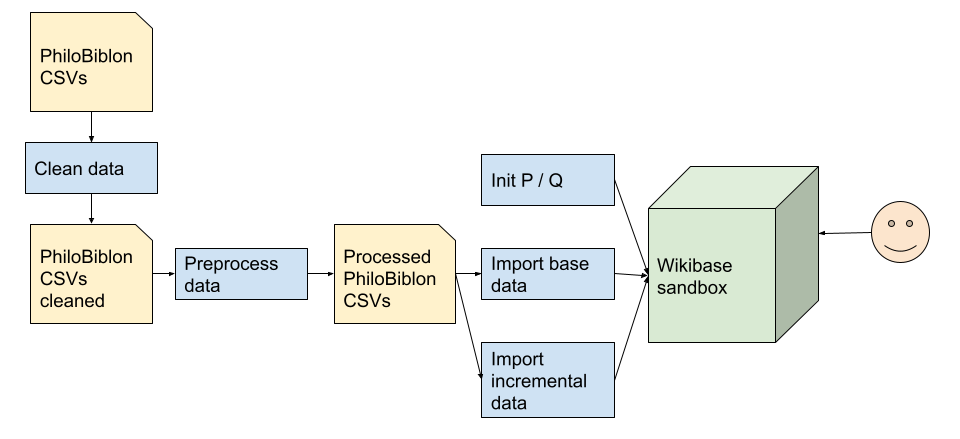
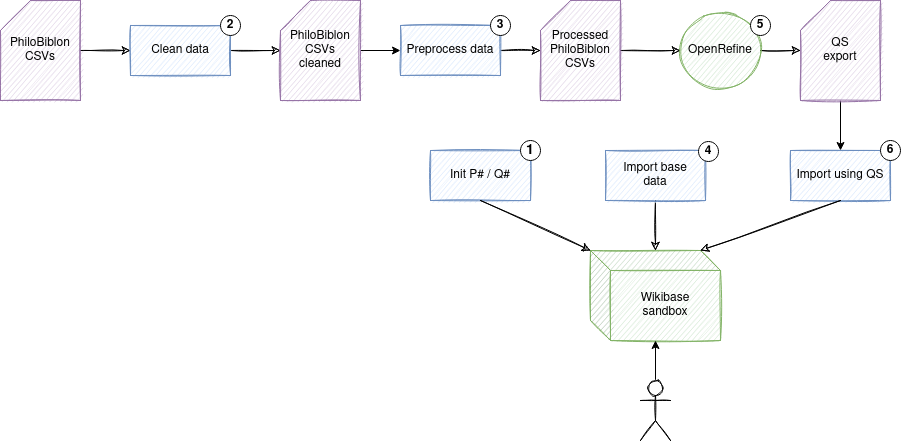
Changes for new import institutions iteration

diff --git a/pb2wb/preprocess/preprocessor/institution.py b/pb2wb/preprocess/preprocessor/institution.py
@@ -1,50 +1,71 @@
+from glob import escape
 import os
 import csv
 import pandas as pd
-from .generic import GenericPreprocessor
 
-UNKNOWN_LANG = 'und'
-NAME_CLASS_TO_LANG = {
-  'INSTITUTIONS*NAME_CLASS*L': 'la',
-  'INSTITUTIONS*NAME_CLASS*E': 'en',
-  'INSTITUTIONS*NAME_CLASS*S': 'es',
-  'INSTITUTIONS*NAME_CLASS*P': 'pt',
-  'INSTITUTIONS*NAME_CLASS*C': 'ca',
-  'INSTITUTIONS*NAME_CLASS*G': 'de',
-  'INSTITUTIONS*NAME_CLASS*F': 'fr',
-  'INSTITUTIONS*NAME_CLASS*I': 'it',
-  'INSTITUTIONS*NAME_CLASS*H': 'nld'
-}
+from common.settings import DATACLIP_DIR
+from .generic import GenericPreprocessor
 
 class InstitutionPreprocessor(GenericPreprocessor):
   CHARS_MAX_LEN = 400
+  UNKNOWN_LANG = 'und'
+  NAME_CLASS_TO_LANG = {
+    'INSTITUTIONS*NAME_CLASS*L': 'la',
+    'INSTITUTIONS*NAME_CLASS*E': 'en',
+    'INSTITUTIONS*NAME_CLASS*S': 'es',
+    'INSTITUTIONS*NAME_CLASS*O': 'es',
+    'INSTITUTIONS*NAME_CLASS*P': 'pt',
+    'INSTITUTIONS*NAME_CLASS*C': 'ca',
+    'INSTITUTIONS*NAME_CLASS*G': 'de',
+    'INSTITUTIONS*NAME_CLASS*F': 'fr',
+    'INSTITUTIONS*NAME_CLASS*I': 'it',
+    'INSTITUTIONS*NAME_CLASS*H': 'nld',
+    'INSTITUTIONS*NAME_CLASS*U': 'es'
+  }
+  DATACLIP_FILENAME = 'BETA - Institutions - Description.csv'
+
+  def __init__(self) -> None:
+    super().__init__()
+    self.df_dataclip = pd.read_csv(os.path.join(DATACLIP_DIR, 'BETA', self.DATACLIP_FILENAME), dtype=str, keep_default_na=False)
   
   def get_name_lang(self, row):
     name_class = row['NAME_CLASS']
     if name_class:
-      if name_class in NAME_CLASS_TO_LANG:
-        return NAME_CLASS_TO_LANG[name_class]
+      if name_class in self.NAME_CLASS_TO_LANG:
+        return self.NAME_CLASS_TO_LANG[name_class]
       else:
-        return UNKNOWN_LANG
+        return self.UNKNOWN_LANG
     return ''
+
+  def lookupDictionary(self, code, lang):    
+    cell_value = self.df_dataclip.loc[self.df_dataclip['code']==code][lang]
+    if cell_value.empty == True:
+      return None
+    else:
+      return cell_value.values[0]
+
+  def get_desc(self, row, lang):
+    item_class = self.lookupDictionary(row['CLASS'], lang)
+    item_type = self.lookupDictionary(row['TYPE'], lang)
+    desc = str(item_class or '') + ' ' + str(item_type or '')
+    return desc.strip()
 
   def preprocess(self, file, processed_dir):
     print('INFO: Processing institutions ..')
     df_ins = pd.read_csv(file, dtype=str, keep_default_na=False)
 
-    # Add label
-    df_ins = self.add_new_column_from_value(df_ins, 'NAME_CLASS', 'INSTITUTIONS*NAME_CLASS*U', 'LABEL', 'NAME')
-    df_ins = self.move_last_column_after(df_ins, 'NAME_CLASS')
-    self.set_column_value_by_condition(df_ins, 'LABEL.str.len()>0', 'NAME', '')
+    # Class
+    self.set_column_value_by_condition(df_ins, 'CLASS.str.len()>0 & CLASS==\'INSTITUTIONS*CLASS*OTHER\'', 'CLASS', '')
 
-    # TODO Add description
+    # Description
+    df_ins['DESC_EN'] = df_ins.apply (lambda row: self.get_desc(row, 'en'), axis=1)
+    df_ins['DESC_ES'] = df_ins.apply (lambda row: self.get_desc(row, 'es'), axis=1)
 
     # Name edit box
     df_ins['NAME_LANG'] = df_ins.apply (lambda row: self.get_name_lang(row), axis=1)
     df_ins = self.move_last_column_after(df_ins, 'NAME_CLASS')
     df_ins = self.add_new_column_by_condition(df_ins, 'NAME_Q.str.len()>0 & NAME_Q==\'?\'', 'NAME_Q_LABEL', 'Questionable statement')
     df_ins = self.move_last_column_after(df_ins, 'NAME_Q')
-
 
     # Milestone edit box
     self.set_column_value_by_condition(df_ins, 'MILESTONE_CLASS.str.len()==0 & (MILESTONE_DETAIL.str.len()>0 | MILESTONE_Q.str.len()>0 | MILESTONE_GEOID.str.len()>0 | MILESTONE_GEOIDQ.str.len()>0 | MILESTONE_BD.str.len()>0 | MILESTONE_BDQ.str.len()>0 | MILESTONE_ED.str.len()>0 | MILESTONE_EDQ.str.len()>0 | MILESTONE_BASIS.str.len()>0)', 'MILESTONE_CLASS', 'Type of event')
@@ -83,9 +104,6 @@ class InstitutionPreprocessor(GenericPreprocessor):
     df_ins = self.add_new_column_from_value(df_ins, 'INTERNET_CLASS', 'UNIVERSAL*INTERNET_CLASS*URL', 'INTERNET_CLASS_URL', 'INTERNET_ADDRESS')
     df_ins = self.move_last_column_after(df_ins, 'INTERNET_CLASS')
  
-    # Notes
-    df_ins = self.split_str_column_by_size(df_ins, 'NOTES', self.CHARS_MAX_LEN)
-
     # Apply safety validations
     self.check_rows_empty_classes(df_ins, ['NAME_CLASS', 'INTERNET_CLASS'])
 

diff --git a/pb2wb/preprocess/preprocess.py b/pb2wb/preprocess/preprocess.py
@@ -2,33 +2,33 @@ import os
 from .preprocessor.generic import GenericPreprocessor
 from .preprocessor.biography import BiographyPreprocessor
 from .preprocessor.institution import InstitutionPreprocessor
-from common.settings import CLEAN_DIR, PROCESSED_DIR
+from common.settings import CLEAN_DIR, PRE_PROCESSED_DIR
 from common.enums import Table
 
-def get_full_path(file):
+def get_full_input_path(file):
   return os.path.join(CLEAN_DIR, file)
 
 def preprocess(table):
-  beta_processed_dir = os.path.join(PROCESSED_DIR, 'BETA')
-  os.makedirs(beta_processed_dir, exist_ok=False)
+  beta_pre_processed_dir = os.path.join(PRE_PROCESSED_DIR, 'BETA')
+  os.makedirs(beta_pre_processed_dir, exist_ok=False)
 
-  if table and table is Table.ANALYTIC:
-    GenericPreprocessor().preprocess(get_full_path('BETA/beta_analytic.csv'), beta_processed_dir)
-  if table and table is Table.BIBLIOGRAPHY:
-    GenericPreprocessor().preprocess(get_full_path('BETA/beta_bibliography.csv'), beta_processed_dir)
-  if table and table is Table.BIOGRAPHY:
-    BiographyPreprocessor().preprocess(get_full_path('BETA/beta_biography.csv'), get_full_path('BETA/beta_geography.csv'), beta_processed_dir)
-  if table and table is Table.COPIES:
-    GenericPreprocessor().preprocess(get_full_path('BETA/beta_copies.csv'), beta_processed_dir)
-  if table and table is Table.GEOGRAPHY:
-    GenericPreprocessor().preprocess(get_full_path('BETA/beta_geography.csv'), beta_processed_dir)
-  if table and table is Table.INSTITUTIONS:
-    InstitutionPreprocessor().preprocess(get_full_path('BETA/beta_institutions.csv'), beta_processed_dir)
-  if table and table is Table.LIBRARY:
-    GenericPreprocessor().preprocess(get_full_path('BETA/beta_library.csv'), beta_processed_dir)
-  if table and table is Table.MS_ED:
-    GenericPreprocessor().preprocess(get_full_path('BETA/beta_ms_ed.csv'), beta_processed_dir)
-  if table and table is Table.SUBJECT:
-    GenericPreprocessor().preprocess(get_full_path('BETA/beta_subject.csv'), beta_processed_dir)
-  if table and table is Table.UNIFORM_TITLE:
-    GenericPreprocessor().preprocess(get_full_path('BETA/beta_uniform_title.csv'), beta_processed_dir)
+  if table is None or table is Table.ANALYTIC:
+    GenericPreprocessor().preprocess(get_full_input_path('BETA/beta_analytic.csv'), beta_pre_processed_dir)
+  if table is None or table is Table.BIBLIOGRAPHY:
+    GenericPreprocessor().preprocess(get_full_input_path('BETA/beta_bibliography.csv'), beta_pre_processed_dir)
+  if table is None or table is Table.BIOGRAPHY:
+    BiographyPreprocessor().preprocess(get_full_input_path('BETA/beta_biography.csv'), get_full_input_path('BETA/beta_geography.csv'), beta_pre_processed_dir)
+  if table is None or table is Table.COPIES:
+    GenericPreprocessor().preprocess(get_full_input_path('BETA/beta_copies.csv'), beta_pre_processed_dir)
+  if table is None or table is Table.GEOGRAPHY:
+    GenericPreprocessor().preprocess(get_full_input_path('BETA/beta_geography.csv'), beta_pre_processed_dir)
+  if table is None or table is Table.INSTITUTIONS:
+    InstitutionPreprocessor().preprocess(get_full_input_path('BETA/beta_institutions.csv'), beta_pre_processed_dir)
+  if table is None or table is Table.LIBRARY:
+    GenericPreprocessor().preprocess(get_full_input_path('BETA/beta_library.csv'), beta_pre_processed_dir)
+  if table is None or table is Table.MS_ED:
+    GenericPreprocessor().preprocess(get_full_input_path('BETA/beta_ms_ed.csv'), beta_pre_processed_dir)
+  if table is None or table is Table.SUBJECT:
+    GenericPreprocessor().preprocess(get_full_input_path('BETA/beta_subject.csv'), beta_pre_processed_dir)
+  if table is None or table is Table.UNIFORM_TITLE:
+    GenericPreprocessor().preprocess(get_full_input_path('BETA/beta_uniform_title.csv'), beta_pre_processed_dir)

diff --git a/pb2wb/base_import/base_import.py b/pb2wb/base_import/base_import.py
@@ -1,44 +1,44 @@
 import os
 import base_import.mapper.moniker as mapper
 from common.wb_manager import WBManager
-from common.settings import PROCESSED_DIR
+from common.settings import PRE_PROCESSED_DIR
 
 
-def get_full_path(file):
-  return os.path.join(PROCESSED_DIR, file)
+def get_full_input_path(file):
+  return os.path.join(PRE_PROCESSED_DIR, file)
 
 def base_import():
   print('Preparing wikibase connection ...')
   wb_manager = WBManager()
 
   print('Migrating analytic ...')
-  mapper.AnalyticMonikerMapper(wb_manager).migrate(get_full_path('BETA/beta_analytic.csv'))
+  mapper.AnalyticMonikerMapper(wb_manager).migrate(get_full_input_path('BETA/beta_analytic.csv'))
 
   print('Migrating bibliography ...')
-  mapper.BibliographyMonikerMapper(wb_manager).migrate(get_full_path('BETA/beta_bibliography.csv'))
+  mapper.BibliographyMonikerMapper(wb_manager).migrate(get_full_input_path('BETA/beta_bibliography.csv'))
 
   print('Migrating biography ...')
-  mapper.BiographyMonikerMapper(wb_manager).migrate(get_full_path('BETA/beta_biography.csv'))
+  mapper.BiographyMonikerMapper(wb_manager).migrate(get_full_input_path('BETA/beta_biography.csv'))
 
   print('Migrating copies ...')
-  mapper.CopiesMonikerMapper(wb_manager).migrate(get_full_path('BETA/beta_copies.csv'))
+  mapper.CopiesMonikerMapper(wb_manager).migrate(get_full_input_path('BETA/beta_copies.csv'))
 
   print('Migrating geography ...')
-  mapper.GeographyMonikerMapper(wb_manager).migrate(get_full_path('BETA/beta_geography.csv'))
+  mapper.GeographyMonikerMapper(wb_manager).migrate(get_full_input_path('BETA/beta_geography.csv'))
 
   print('Migrating institution ...')
-  mapper.InstitutionMonikerMapper(wb_manager).migrate(get_full_path('BETA/beta_institutions.csv'))
+  mapper.InstitutionMonikerMapper(wb_manager).migrate(get_full_input_path('BETA/beta_institutions.csv'))
 
   print('Migrating library ...')
-  mapper.LibraryMonikerMapper(wb_manager).migrate(get_full_path('BETA/beta_library.csv'))
+  mapper.LibraryMonikerMapper(wb_manager).migrate(get_full_input_path('BETA/beta_library.csv'))
 
   print('Migrating ms/ed ...')
-  mapper.MsEdMonikerMapper(wb_manager).migrate(get_full_path('BETA/beta_ms_ed.csv'))
+  mapper.MsEdMonikerMapper(wb_manager).migrate(get_full_input_path('BETA/beta_ms_ed.csv'))
 
   print('Migrating subject ...')
-  mapper.SubjectMonikerMapper(wb_manager).migrate(get_full_path('BETA/beta_subject.csv'))
+  mapper.SubjectMonikerMapper(wb_manager).migrate(get_full_input_path('BETA/beta_subject.csv'))
 
   print('Migrating uniform title ...')
-  mapper.UniformTitleMonikerMapper(wb_manager).migrate(get_full_path('BETA/beta_uniform_title.csv'))
+  mapper.UniformTitleMonikerMapper(wb_manager).migrate(get_full_input_path('BETA/beta_uniform_title.csv'))
 
   print('done.')

diff --git a/pb2wb/postprocess/postprocess.py b/pb2wb/postprocess/postprocess.py
@@ -1,0 +1,32 @@
+import os
+from .postprocessor.generic import GenericPostprocessor
+from common.settings import OPENREFINE_PROCESSED_DIR, POST_PROCESSED_DIR
+from common.enums import Table
+
+def get_full_input_path(file):
+  return os.path.join(OPENREFINE_PROCESSED_DIR, file)
+
+def postprocess(table):
+  beta_post_processed_dir = os.path.join(POST_PROCESSED_DIR, 'BETA')
+  os.makedirs(beta_post_processed_dir, exist_ok=False)
+
+  if table is None or table is Table.ANALYTIC:
+    GenericPostprocessor().postprocess(get_full_input_path('BETA/beta_analytic.qs'), beta_post_processed_dir)
+  if table is None or table is Table.BIBLIOGRAPHY:
+    GenericPostprocessor().postprocess(get_full_input_path('BETA/beta_bibliography.qs'), beta_post_processed_dir)
+  if table is None or table is Table.BIOGRAPHY:
+    GenericPostprocessor().postprocess(get_full_input_path('BETA/beta_biography.qs'), beta_post_processed_dir)
+  if table is None or table is Table.COPIES:
+    GenericPostprocessor().postprocess(get_full_input_path('BETA/beta_copies.qs'), beta_post_processed_dir)
+  if table is None or table is Table.GEOGRAPHY:
+    GenericPostprocessor().postprocess(get_full_input_path('BETA/beta_geography.qs'), beta_post_processed_dir)
+  if table is None or table is Table.INSTITUTIONS:
+    GenericPostprocessor().postprocess(get_full_input_path('BETA/beta_institutions.qs'), beta_post_processed_dir)
+  if table is None or table is Table.LIBRARY:
+    GenericPostprocessor().postprocess(get_full_input_path('BETA/beta_library.qs'), beta_post_processed_dir)
+  if table is None or table is Table.MS_ED:
+    GenericPostprocessor().postprocess(get_full_input_path('BETA/beta_ms_ed.qs'), beta_post_processed_dir)
+  if table is None or table is Table.SUBJECT:
+    GenericPostprocessor().postprocess(get_full_input_path('BETA/beta_subject.qs'), beta_post_processed_dir)
+  if table is None or table is Table.UNIFORM_TITLE:
+    GenericPostprocessor().postprocess(get_full_input_path('BETA/beta_uniform_title.qs'), beta_post_processed_dir)

diff --git a/pb2wb/postprocess/postprocessor/generic.py b/pb2wb/postprocess/postprocessor/generic.py
@@ -1,0 +1,17 @@
+import os
+import re
+
+# Detect empty "Dataset status" statements
+PATTERN_EMPTY_DATASET_STATUS = '^(.*)\tP799\tQ(\d*)$'
+
+class GenericPostprocessor:
+
+  def filter(self, file, processed_file):
+    with open(file, 'r') as input:
+      with open(processed_file, 'w') as output:        
+          for line in input:
+              if not re.match(PATTERN_EMPTY_DATASET_STATUS, line):
+                output.write(line)
+
+  def postprocess(self, file, processed_dir):
+    self.filter(file, os.path.join(processed_dir, os.path.basename(file)))

diff --git a/pb2wb/common/settings.py b/pb2wb/common/settings.py
@@ -1,8 +1,10 @@
 MEDIAWIKI_API_URL = 'http://localhost/api.php'
 SPARQL_ENDPOINT_URL = 'http://localhost:8834/proxy/wdqs/bigdata/namespace/wdq/sparql'
-
 WB_USER = 'Admin@philobot'
-WB_PASSWORD = 'bfdupdq1doo3gr3qsjh4e17tjtrju00l'
+WB_PASSWORD = 'XXX'
 
+DATACLIP_DIR = '../data/dataclips'
 CLEAN_DIR = '../data/clean'
-PROCESSED_DIR = '../data/processed'
+PRE_PROCESSED_DIR = '../data/processed/pre'
+OPENREFINE_PROCESSED_DIR = '../data/processed/or'
+POST_PROCESSED_DIR = '../data/processed/post'

diff --git a/pb2wb/run_postprocess.py b/pb2wb/run_postprocess.py
@@ -1,5 +1,5 @@
 import argparse
-from preprocess import preprocess
+from postprocess import postprocess
 from common import enums
 
 parser = argparse.ArgumentParser()
@@ -7,6 +7,6 @@ parser.add_argument("--table", help="Only preprocess this table.")
 args = parser.parse_args()
 
 if args.table:
-  preprocess.preprocess(enums.Table[args.table.upper()])
+  postprocess.postprocess(enums.Table[args.table.upper()])
 else:
-  preprocess.preprocess(None)
+  postprocess.postprocess(None)

diff --git a/pb2wb/README.md b/pb2wb/README.md
@@ -34,6 +34,8 @@ Steps to migrate data:
    * *Entities*: `conf/q_items.csv`
 3. `run_preprocess.py`: Preprocess raw CSVs.
 4. `run_base_import.py`: Import base data from cleaned CSVs to Wikibase.
+5. Import preprocessed CSVs to OpenRefine and process them.
+6. `run_postprocess.py`: Postprocess QS files exported from QuickStatements.
 
 
 Commands:
@@ -44,4 +46,5 @@ bash clean/mkclean.sh
 python run_init.py --first-time
 python run_preprocess.py
 python run_base_import.py
+python run_postprocess.py
 ```
